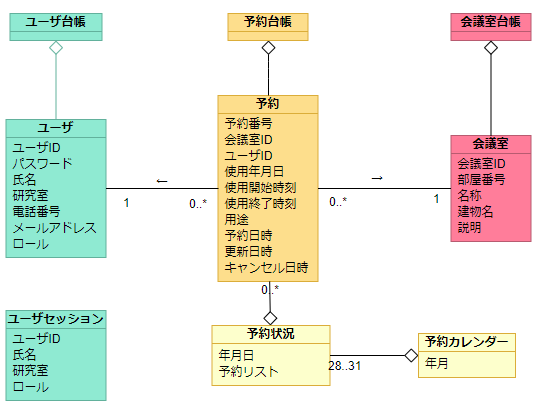
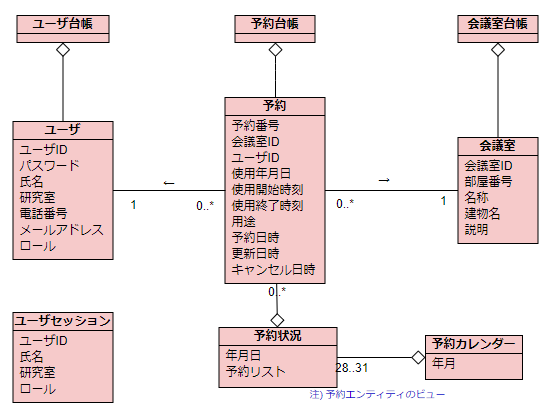
ドメインモデルを清書

diff --git a/MeetingRoomReservation/analysis/domain_modeling.md b/MeetingRoomReservation/analysis/domain_modeling.md
@@ -52,6 +52,13 @@
 - ユーザ台帳
 - 会議室台帳
 
+### その他
+- カレンダーと予約状況は，予約エンティティのビューである
+    - カレンダー：予約を指定月で取ってきたもの
+    - 予約状況： 予約を指定日でとってきたもの
+- ユーザセッションはログイン成功時のみ生成．ログアウトで消滅．永続化の必要なし
+
+
 ### ドメインモデル図
 
 <img src="./img/domain_model.png">
